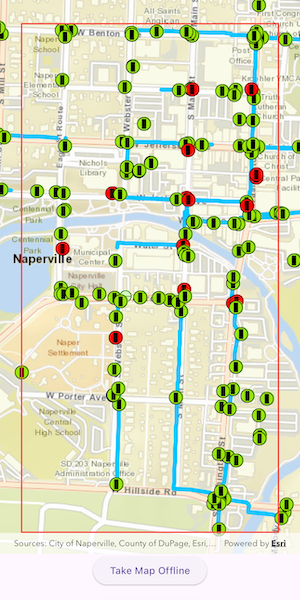
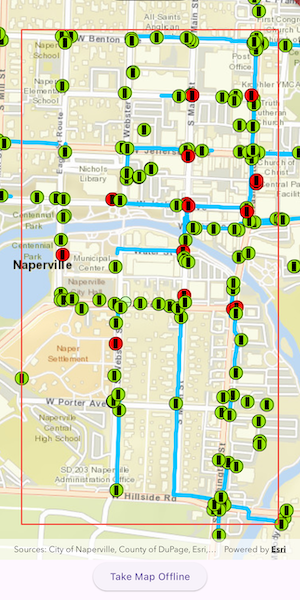
add additional padding above the attribution bar

diff --git a/lib/samples/generate_offline_map/generate_offline_map_sample.dart b/lib/samples/generate_offline_map/generate_offline_map_sample.dart
@@ -74,7 +74,8 @@ class _GenerateOfflineMapSampleState extends State<GenerateOfflineMapSample>
                         child: IgnorePointer(
                           child: SafeArea(
                             child: Container(
-                              margin: const EdgeInsets.all(30.0),
+                              margin: const EdgeInsets.fromLTRB(
+                                  30.0, 30.0, 30.0, 50.0),
                               child: Container(
                                 key: _outlineKey,
                                 decoration: BoxDecoration(
